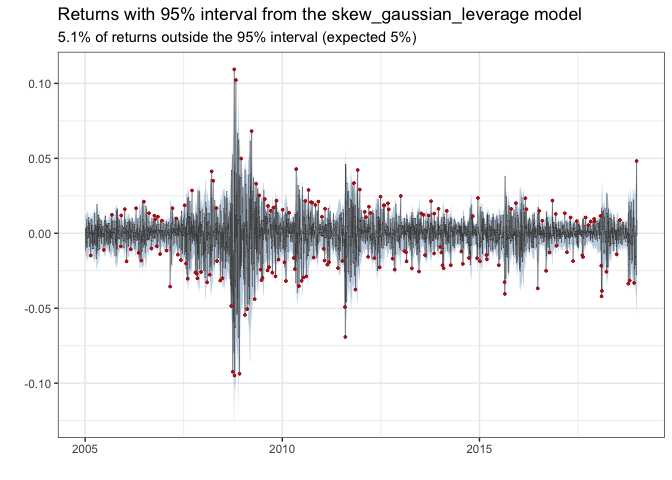
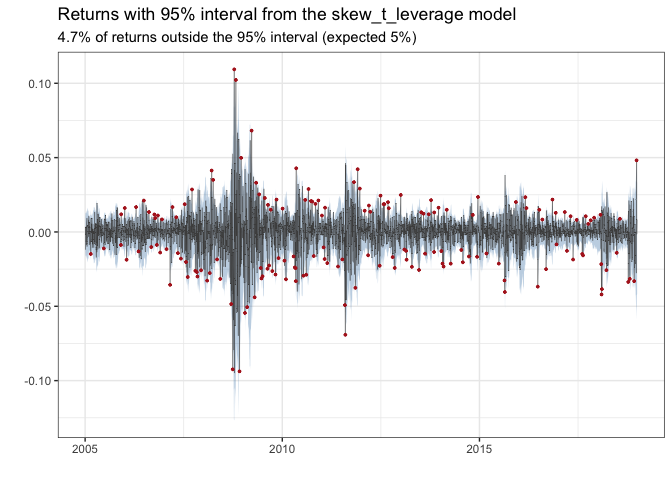
Add skew_t_leverage model
The skew t return shock drives the volatility shock, as in
skew_gaussian_leverage: eta = rho * z + sqrt(1 - rho^2) * e. It
estimates df_left, df_right and rho.

Validation: TMB joint density matches R to 1e-14; Laplace error
against the exact grid likelihood is at most 0.53 nll units; all 60
simulation fits converge and recover tails and rho. On the S&P 500
data it has the smallest AIC (-23721) and the first OSA residuals
that the KS test does not reject (p = 0.14).

TMB::oneStepPredict is not valid for this model, because y enters the
latent process without keep, so residuals(method = "tmb") stops with
an error. The grid residuals work.

Also make the simulate_parameters test deterministic and give it
tolerances that match the sampling error of 1000 draws.

diff --git a/src/stochvolTMB.cpp b/src/stochvolTMB.cpp
@@ -108,7 +108,7 @@ Type objective_function<Type>::operator()(){
 
   // Jones-Faddy skew t, standardized to mean zero and unit variance. a and b set the left and right tail.
   Type a_st = 0, b_st = 0, mu_st = 0, sd_st = 1, logc_st = 0;
-  if(model == 5){
+  if(model == 5 || model == 6){
     Type df_left = exp(capped_log_df_minus_two(log_df_left_minus_two(0))) + Type(2);
     Type df_right = exp(capped_log_df_minus_two(log_df_right_minus_two(0))) + Type(2);
     ADREPORT(df_left);
@@ -125,7 +125,7 @@ Type objective_function<Type>::operator()(){
   }
 
   Type rho = 0;
-  if(model == 3 || model == 4){
+  if(model == 3 || model == 4 || model == 6){
     rho = f(logit_rho(0));
     ADREPORT(rho);
   }
@@ -204,17 +204,25 @@ Type objective_function<Type>::operator()(){
 
     // Skew t distribution (Jones and Faddy 2003). The density is smooth, unlike Hansen's skewed t whose
     // curvature jumps at the mode; that jump broke the Laplace approximation and the optimizer.
-    case 5:{
+    // Skew t with leverage: same order as model 4, the skew t return shock z(i) drives the volatility shock,
+    // eta(i) = rho * z(i) + sqrt(1 - rho^2) * e(i).
+    case 5:
+    case 6:{
       Type scale = sigma_y * exp(h(i) / Type(2));
       Type t = mu_st + sd_st * y(i) / scale;
       Type r = t / sqrt(a_st + b_st + t * t);
       nll -= keep(i) * (logc_st + (a_st + Type(0.5)) * log(Type(1) + r) + (b_st + Type(0.5)) * log(Type(1) - r) +
         log(sd_st) - log(scale));
+      if(model == 6 && i < (N - 1)){
+        // Replace the gaussian AR(1) term with h(i + 1) | h(i), y(i). Marginally eta has no closed form here, so
+        // unlike model 4 this term contains y(i) without keep, and TMB::oneStepPredict cannot be used.
+        Type c = sqrt(Type(1) - rho * rho);
+        Type eta = (h(i + 1) - phi * h(i)) / sigma_h;
+        Type z = y(i) / scale;
+        nll -= dnorm(eta, rho * z, c, true) - dnorm(eta, Type(0), Type(1), true);
+      }
       break;
     }
-
-    // TODO:
-    // Skew t with leverage
 
     default:
       Rf_error("This distribution is not implementet!");

diff --git a/README.md b/README.md
@@ -26,7 +26,7 @@ estimation. The latent volatility is integrated out of the likelihood
 using the Laplace approximation and automatic differentiation (AD) is
 used for accurate evaluation of derivatives.
 
-Six models for the observational error are implemented. Select a model
+Seven models for the observational error are implemented. Select a model
 with the `model` argument of `estimate_parameters`:
 
 - **Gaussian** (`"gaussian"`) - The classic SV model with Gaussian noise
@@ -39,6 +39,8 @@ with the `model` argument of `estimate_parameters`:
   Combines asymmetric returns with the leverage effect
 - **Skew-t** (`"skew_t"`) - Skew t distributed noise with separate
   degrees of freedom for the left and the right tail
+- **Skew-t with leverage** (`"skew_t_leverage"`) - Combines heavy and
+  asymmetric tails with the leverage effect
 
 ## Installation
 
@@ -78,9 +80,10 @@ skew_gaussian <- estimate_parameters(spy$log_return, model = "skew_gaussian", si
 leverage <- estimate_parameters(spy$log_return, model = "leverage", silent = TRUE)
 skew_gaussian_leverage <- estimate_parameters(spy$log_return, model = "skew_gaussian_leverage", silent = TRUE)
 skew_t <- estimate_parameters(spy$log_return, model = "skew_t", silent = TRUE)
+skew_t_leverage <- estimate_parameters(spy$log_return, model = "skew_t_leverage", silent = TRUE)
 
 # the models with leverage stand out with an AIC far below the other models
-AIC(gaussian, t_dist, skew_gaussian, skew_t, leverage, skew_gaussian_leverage)
+AIC(gaussian, t_dist, skew_gaussian, skew_t, leverage, skew_gaussian_leverage, skew_t_leverage)
 #>                        df       AIC
 #> gaussian                3 -23430.57
 #> t_dist                  4 -23451.69
@@ -88,6 +91,7 @@ AIC(gaussian, t_dist, skew_gaussian, skew_t, leverage, skew_gaussian_leverage)
 #> skew_t                  5 -23459.72
 #> leverage                4 -23608.85
 #> skew_gaussian_leverage  5 -23698.59
+#> skew_t_leverage         6 -23721.38
 
 # the skew models report the skewness and the shape parameter alpha
 summary(skew_gaussian_leverage, report = "transformed")
@@ -125,10 +129,10 @@ plot(leverage, include_ci = TRUE, dates = spy$date)
 ``` r
 
 # plot the returns with the 95 % interval of the fitted model
-plot_returns(skew_gaussian_leverage, dates = spy$date)
+plot_returns(skew_t_leverage, dates = spy$date)
 ```
 
-<img src="man/figures/README-example-2.png" alt="S&amp;P 500 returns with the 95% interval from the skew-Gaussian leverage model" width="100%" />
+<img src="man/figures/README-example-2.png" alt="S&amp;P 500 returns with the 95% interval from the skew-t leverage model" width="100%" />
 
 Given the estimated parameters we can simulate future volatility and
 log-returns using `predict`.
@@ -204,10 +208,10 @@ It shows a Q-Q plot and the autocorrelation of the residuals and of the
 squared residuals:
 
 ``` r
-plot_diagnostics(skew_gaussian_leverage)
+plot_diagnostics(skew_t_leverage)
 ```
 
-<img src="man/figures/README-unnamed-chunk-6-1.png" alt="Q-Q plot and autocorrelation of the one-step-ahead residuals of the skew-Gaussian leverage model" width="100%" />
+<img src="man/figures/README-unnamed-chunk-6-1.png" alt="Q-Q plot and autocorrelation of the one-step-ahead residuals of the skew-t leverage model" width="100%" />
 
 ## Shiny app
 

diff --git a/NEWS.md b/NEWS.md
@@ -12,6 +12,9 @@
 * New model `skew_t`: the skew t distribution of Jones and Faddy (2003), standardized to mean zero and unit variance,
   with separate degrees of freedom for the left and the right tail (`df_left`, `df_right`). Supported by
   `estimate_parameters()`, `sim_sv()`, `predict()`, `residuals()` and `plot_returns()`.
+* New model `skew_t_leverage`: the skew t return shock drives the volatility shock, as in `skew_gaussian_leverage`.
+  It estimates `df_left`, `df_right` and `rho`. On the S&P 500 data it has the smallest AIC of all models, and its
+  one-step-ahead residuals have a straight Q-Q plot. `residuals(method = "tmb")` is not available for this model.
 * The degrees of freedom of the `t` and `skew_t` models are capped at 10,000. For larger values the `lgamma`
   differences in the density lost all precision, and the fit of the `t` model could run to `df = 1e14` with a
   meaningless likelihood. At 10,000 degrees of freedom the distribution is gaussian for all practical purposes.
